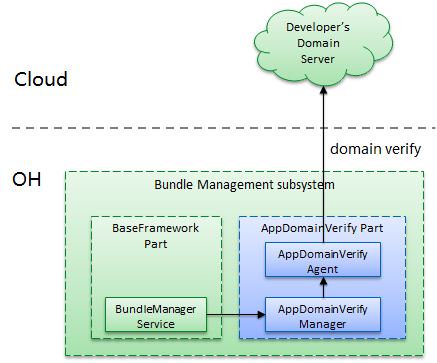
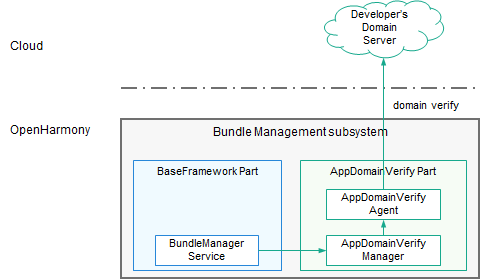
1:update figures 2:update readme Binary Source:figures/architecture_en.png,figures/architecture_zh.png

diff --git a/README.md b/README.md
@@ -2,75 +2,36 @@
 
 ## 1. 简介
 
-应用域名校验部件属于包管理子系统，提供给包管理子系统使用，实现在应用安装、卸载、更新时同步修改应用和域名的映射关系，在应用间跳转时提供待跳转Ability的过滤。具体功能如下：
+应用域名校验部件是包管理子系统中的一个部件，其与包管理基础框架，元能力管理服务，互相协作共同完成Applinking功能(*1)。该部件主要功能为：
 
-### 应用集成
+1. 在应用的安装阶段，与应用关联的域名服务器进行通信，校验应用与域名的双向关联关系，并保存该关联关系。
+1. 在打开链接时，根据保存的关联关系，过滤出域名关联的应用的ability。
 
-开发者需在module.json5中增加字段标识**domainVerify**为true启用应用域名校验,并在uris增加自己https域名的host
-```
-{
-  "abilities": [
-    {
-      "skills": [
-        {
-          "actions": [
-            "ohos.want.action.viewData"
-          ],
-          "entities": [
-            "entity.system.browsable"
-          ],
-          "uris": [
-            {
-              "scheme":"https",
-              "host":"example.com",
-              "port":"80",
-              "path":"path",
-              "type": "text/*"
-            }
-          ],
-          "domainVerify":true
-        }
-      ]
-    }
-  ]
-}
-
-```
-开发者把资产配置文件放置到自己域名的特定路径，资产配置文件中包含应用的载体id、包名、签名指纹信息，资产配置文件路径示例：https://www.xxx.com/.well-known/applinkings.json
-内容如下示例
-```
-{
-  "applinking": {
-    "apps": [
-      {
-        "appIdentifier": "载体id",
-        "bundleName": "包名",
-        "fingerprint": "签名指纹"
-      }
-    ]
-  }
-}
-
-```
-### 包管理调用
-- 应用安装时，调用应用域名校验部件的校验域名接口，获取应用module.json5中声明所有的https域名下的资产配置文件，校验资产配置文件apps数组字段中是否存在项匹配当前应用，如存在则在当前域名下校验成功，否则失败
-- 应用卸载时，调用应用域名校验部件的删除接口，删去当前应用的校验结果
-- 应用更新时，会先删除当前应用的校验结果，再重新发起校验
-- 当应用间使用startAbility进行应用间隐式跳转时，包管理会将Want(隐式跳转，uri为一个https链接)和初筛出的待跳转Ability作为入参，传递给应用域名校验部件，部件根据入参Ability所在应用与Want中uri域名的校验关系缓存，过滤出校验成功的应用的Ability，传回给包管理，完成更精确地应用间跳转
-
-### 周期刷新
-- 应用域名校验部件会在设备完成开机后以及固定的时间周期内主动刷新校验失败的应用校验结果
-
+* 注释：
+  1. Applinking是一种链接跳转技术，是一种通过https链接直接将用户带到应用程序中的特定内容的技术。相比Deeplink，Applinking技术更加安全可靠，体验也更佳。
 
 ### 架构图
 
-![](figures/architecture_zh.png "应用域名校验部件架构图")
+!["应用域名校验部件架构图"](figures/architecture_zh.png)
 
 **图 1**  应用域名校验部件架构图
 
+### 基本流程
+
+#### 包管理调用
+
+* 应用安装时，调用应用域名校验部件的校验域名接口，获取应用module.json5中声明所有的https域名下的资产配置文件，校验资产配置文件apps数组字段中是否存在项匹配当前应用，如存在则在当前域名下校验成功，否则失败
+* 应用卸载时，调用应用域名校验部件的删除接口，删去当前应用的校验结果
+* 应用更新时，会先删除当前应用的校验结果，再重新发起校验
+* 当应用间使用startAbility进行应用间隐式跳转时，包管理会将Want(隐式跳转，uri为一个https链接)和初筛出的待跳转Ability作为入参，传递给应用域名校验部件，部件根据入参Ability所在应用与Want中uri域名的校验关系缓存，过滤出校验成功的应用的Ability，传回给包管理，完成更精确地应用间跳转
+
+#### 周期刷新
+
+* 应用域名校验部件会在设备完成开机后以及固定的时间周期内主动刷新校验失败的应用校验结果
+
 ## 2. 代码目录
 
-```
+```text
 /foundation/bundlemanager/app_domain_verify/
 ├── etc                      # 组件包含的进程的配置文件
 ├── figures                  # 架构图
@@ -83,29 +44,38 @@
 ```
 
 ## 3. 编译构建
+
 在OpenHarmony源码根目录下，调用以下指令，单独编译app_domain_verify。
+
 ```shell
 ./build.sh --product-name rk3568 --ccache --build-target app_domain_verify
 ```
+
 > **说明：**
 --product-name：产品名称，例如Hi3516DV300、rk3568等。
 --ccache：编译时使用缓存功能。
 --build-target: 编译的部件名称。
 
 ## 4. Inner API开发指导
-### 4.1 接口说明<a id="inner_api"></a>
-#### 4.1.1 app_domain_verify_mgr_client.h
+
+### 接口说明
+
+#### app_domain_verify_mgr_client.h
+
 接口调用需要引入以下头文件
-```
+
+```c++
 #include "app_domain_verify_mgr_client.h"
 ```
+
 |接口|说明|
 |---|---|
-|VerifyDomain(const std::string &appIdentifier, const std::string &bundleName, const std::string &fingerprint, const std::vector<SkillUri> &skillUris)：void|提供给BundleManagerService使用，在应用安装和更新时调用，用于触发应用域名校验任务。|
-|ClearDomainVerifyStatus(const std::string &appIdentifier, const std::string &bundleName)：bool|提供给BundleManagerService使用，在应用卸载时调用，用于清理被卸载应用的校验信息。返回值用于判断是否成功清理。|
-|FilterAbilities(const OHOS::AAFwk::Want &want, const std::vector<OHOS::AppExecFwk::AbilityInfo> &originAbilityInfos, std::vector<OHOS::AppExecFwk::AbilityInfo> &filtedAbilityInfos)：bool|提供给BundleManagerService使用，当应用间使用startAbility进行应用间隐式跳转时，从入参AbilityInfos中筛选出所在应用与want中https域名校验成功的部分。返回值用于判断是否筛选成功。| 
+|`VerifyDomain(const std::string &appIdentifier, const std::string &bundleName, const std::string &fingerprint, const std::vector<SkillUri> &skillUris)：void`|提供给BundleManagerService使用，在应用安装和更新时调用，用于触发应用域名校验任务。|
+|`ClearDomainVerifyStatus(const std::string &appIdentifier, const std::string &bundleName)：bool`|提供给BundleManagerService使用，在应用卸载时调用，用于清理被卸载应用的校验信息。返回值用于判断是否成功清理。|
+|`FilterAbilities(const OHOS::AAFwk::Want &want, const std::vector<OHOS::AppExecFwk::AbilityInfo> &originAbilityInfos, std::vector<OHOS::AppExecFwk::AbilityInfo> &filtedAbilityInfos)：bool`|提供给BundleManagerService使用，当应用间使用startAbility进行应用间隐式跳转时，从入参AbilityInfos中筛选出所在应用与want中https域名校验成功的部分。返回值用于判断是否筛选成功。|
 
-#### 4.1.2 skill_uri.h
+#### skill_uri.h
+
 skill_uri 信息结构体。
 
 |属性|类型|描述|
@@ -118,24 +88,33 @@ skill_uri 信息结构体。
 | pathRegex| std::string |  URI的路径部分，path、pathStartWith和pathRegex配置时三选一。  |
 | type| std::string | 标识与Want相匹配的数据类型，使用MIME类型规范。  |
 
-### 4.2 开发步骤
-### 在bundle.json中加入依赖：
-```
+### 开发步骤
+
+#### 在bundle.json中加入依赖
+
+```json
 "deps": {
   "components": [
     "app_domain_verify"
-]
+  ]
+}
 ```
-### 在模块gn文件中加入对客户端模块的依赖：
-```
+
+#### 在模块gn文件中加入对客户端模块的依赖
+
+```gn
 external_deps = [
   "app_domain_verify:app_domain_verify_mgr_client",
   "app_domain_verify:app_domain_verify_common"
 ]
 ```
-### 在头文件中引入客户端的头文件：
-```
+
+#### 在头文件中引入客户端的头文件
+
+```c++
 #include "app_domain_verify_mgr_client.h"
 ```
-### 发起接口调用
-参考[4.1 接口说明](#inner_api)调用接口
+
+#### 发起接口调用
+
+参考[`接口说明`](#接口说明)调用接口
